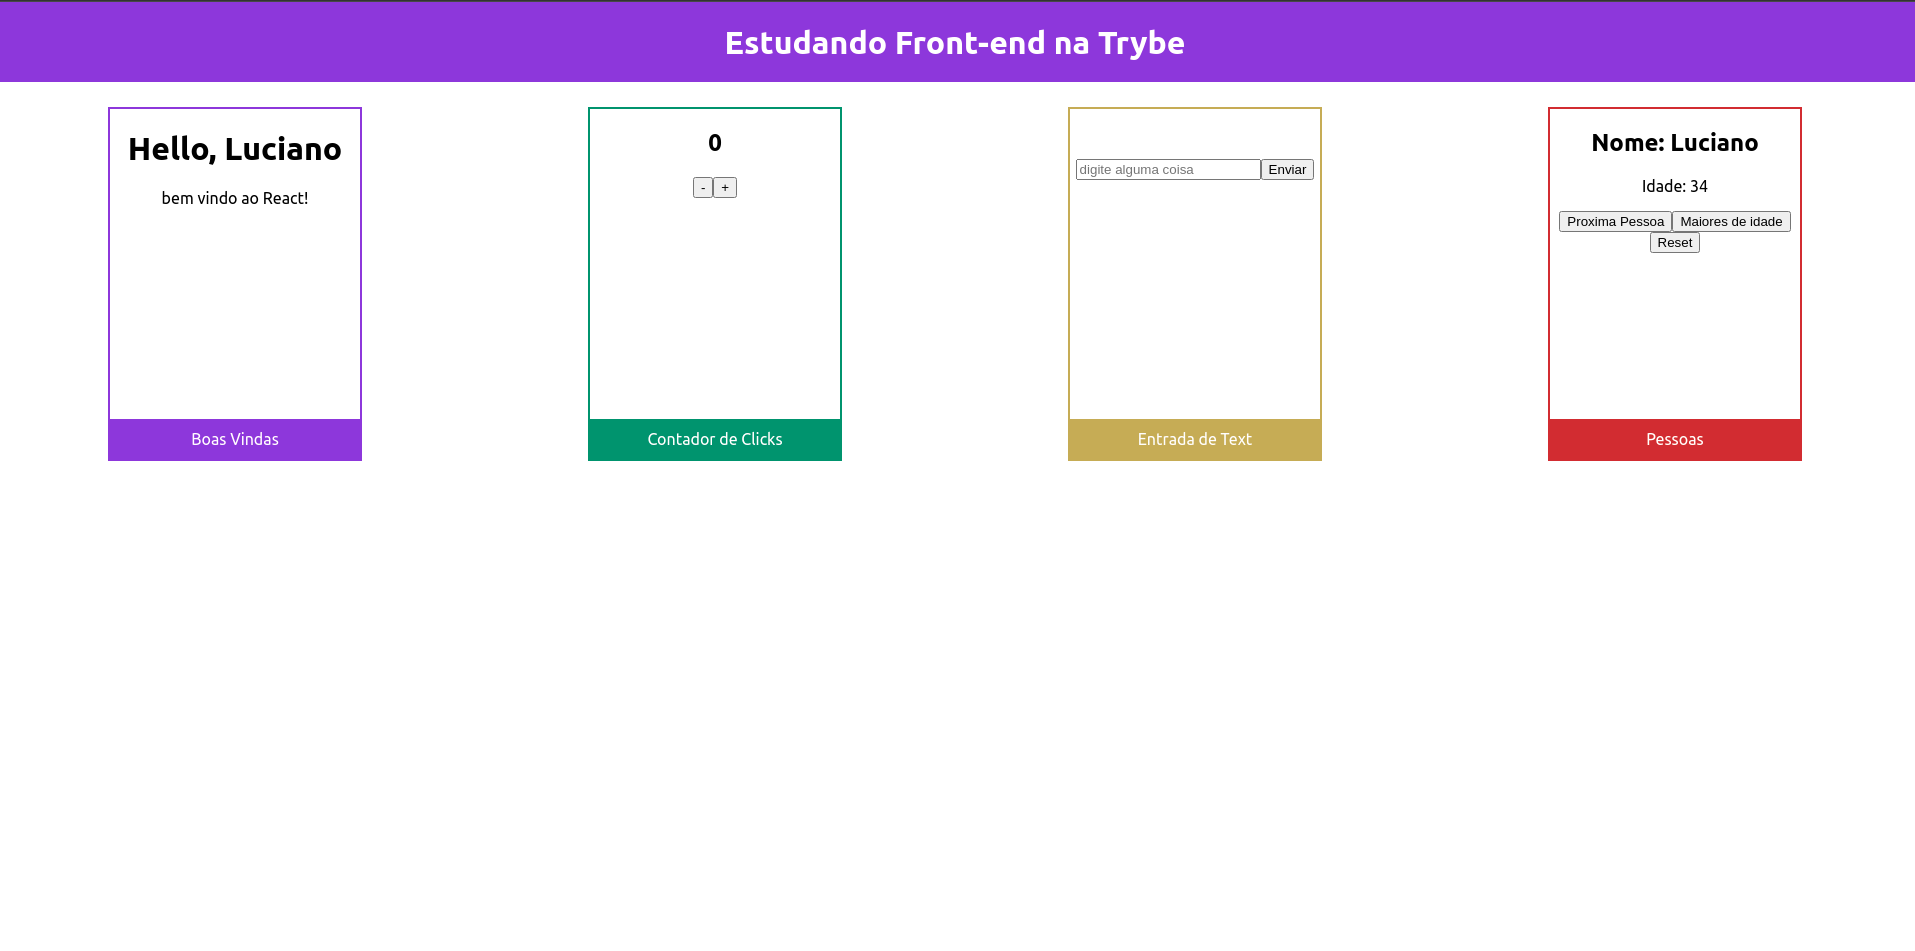
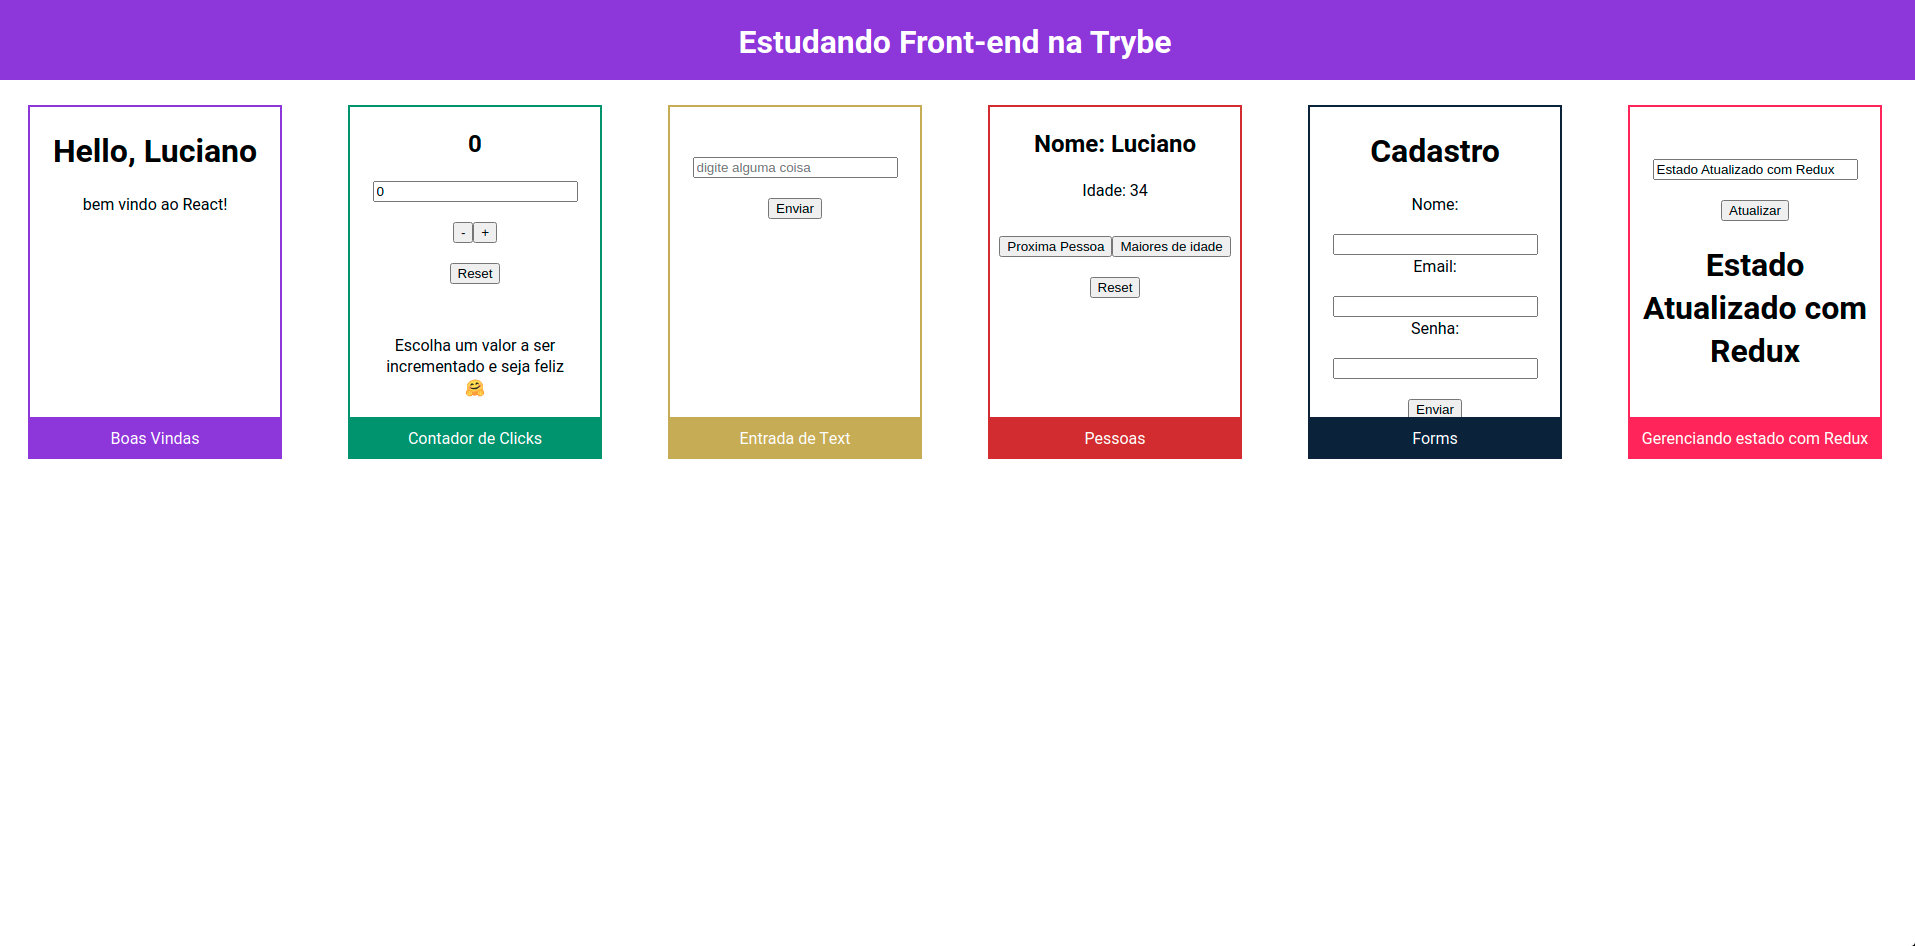
Add componente StateWithRedux

diff --git a/src/components/StateWithRedux.js b/src/components/StateWithRedux.js
@@ -1,0 +1,49 @@
+import React, { Component } from "react";
+import { connect } from "react-redux";
+import { bindActionCreators } from "redux";
+import { clickButton } from "../actions";
+import "./styles/StateWithRedux.css";
+
+class StateWithRedux extends Component {
+  constructor() {
+    super();
+    this.state = {
+      inputValue: "",
+    };
+  }
+
+  handleChange = (event) => {
+    this.setState({
+      inputValue: event.target.value,
+    });
+  };
+
+  handleClick = (event, inputValue) => {
+    event.PreventDefault();
+    clickButton(inputValue);
+  };
+
+  render() {
+    const { clickButton, newValue } = this.props;
+    const { inputValue } = this.state;
+    return (
+      <div className="state-with-redux">
+        <input type="text" onChange={this.handleChange} value={inputValue} />
+        <button type="submit" onClick={() => clickButton(inputValue)}>
+          Atualizar
+        </button>
+        <h1>{newValue}</h1>
+      </div>
+    );
+  }
+}
+
+const mapStateToProps = (store) => ({
+  newValue: store.clickState.newValue,
+});
+
+const mapDispatchToProps = (dispatch) => {
+  return bindActionCreators({ clickButton }, dispatch);
+};
+
+export default connect(mapStateToProps, mapDispatchToProps)(StateWithRedux);

diff --git a/src/App.js b/src/App.js
@@ -6,11 +6,11 @@ import InputText from "./components/InputText";
 import "./App.css";
 import ViewPerson from "./components/ViewPerson";
 import Forms from "./components/Forms";
+import StateWithRedux from "./components/StateWithRedux";
 
 function App() {
   return (
     <div className="app">
-
       <Card titulo="Boas Vindas">
         <Greeting name="Luciano" />
       </Card>
@@ -24,13 +24,16 @@ function App() {
       </Card>
 
       <Card titulo="Pessoas" color="#c0392b">
-        <ViewPerson/>
+        <ViewPerson />
       </Card>
 
       <Card titulo="Forms" color="#14213d">
         <Forms />
       </Card>
 
+      <Card titulo="Gerenciando estado com Redux" color="#f53b57">
+        <StateWithRedux />
+      </Card>
     </div>
   );
 }

diff --git a/src/index.js b/src/index.js
@@ -3,13 +3,17 @@ import ReactDOM from 'react-dom';
 import './index.css';
 import App from './App';
 import Header from './components/Header';
+import { Provider } from 'react-redux';
+import { Store } from './store';
 
 
 ReactDOM.render(
-  <React.StrictMode>
-    <Header />
-    <App />
-  </React.StrictMode>,
+  <Provider store={Store}>
+    <React.StrictMode>
+      <Header />
+      <App />
+    </React.StrictMode>
+  </Provider>,
   document.getElementById('root')
 );
 

diff --git a/src/reducers/clickReducer.js b/src/reducers/clickReducer.js
@@ -1,0 +1,15 @@
+const initialState = {
+  newValue: "",
+};
+
+export const clickReducer = (state = initialState, action) => {
+  switch (action.type) {
+    case "CLICK_UPDATE_VALUE":
+      return {
+        ...state,
+        newValue: action.newValue,
+      };
+    default:
+      return state;
+  }
+};

diff --git a/src/reducers/index.js b/src/reducers/index.js
@@ -1,0 +1,6 @@
+import { clickReducer } from './clickReducer';
+import { combineReducers } from 'redux';
+
+export const Reducers = combineReducers({
+  clickState: clickReducer,
+});

diff --git a/src/actions/index.js b/src/actions/index.js
@@ -1,0 +1,6 @@
+import { CLICK_UPDATE_VALUE } from './actionTypes';
+
+export const clickButton = (value, event) => ({
+  type: CLICK_UPDATE_VALUE,
+  newValue: value
+});

diff --git a/src/store/index.js b/src/store/index.js
@@ -1,0 +1,4 @@
+import { createStore } from 'redux';
+import { Reducers } from '../reducers'
+
+export const Store = createStore(Reducers);

diff --git a/src/actions/actionTypes.js b/src/actions/actionTypes.js
@@ -1,0 +1,1 @@
+export const CLICK_UPDATE_VALUE = 'CLICK_UPDATE_VALUE';

diff --git a/src/components/styles/StateWithRedux.css b/src/components/styles/StateWithRedux.css
@@ -1,0 +1,3 @@
+.state-with-redux {
+  margin-top: 50px;
+}

diff --git a/README.md b/README.md
@@ -5,12 +5,16 @@
 - Criar componentes
 - Props
 - State
+- Componentes controlados
+- Redux
 ## Lista de componentes
 
 1. Componente **Card** para armazenar outros componentes.
 2. Componente **Greeting** que renderiza um mensagem de saudação.
 3. Componente **Counter** contador de clicks com incremento de decremento.
 4. Componente **InputText** input com button que imprime um alerta com o conteúdo digitado.
-5. Componente **ViewPerson** vizualiza uma lista de pessoas
+5. Componente **ViewPerson** vizualiza uma lista de pessoas.
+6. Componente **Foms** formulário de cadastro.
+7. Componente **StateWithRedux** o estado desse componente é gerenciado com redux.
 
 <img src="./resultado.png" width="700">
